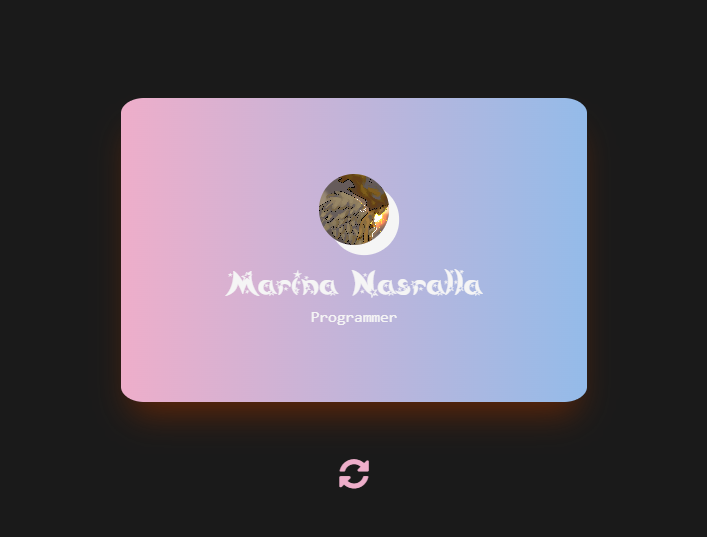
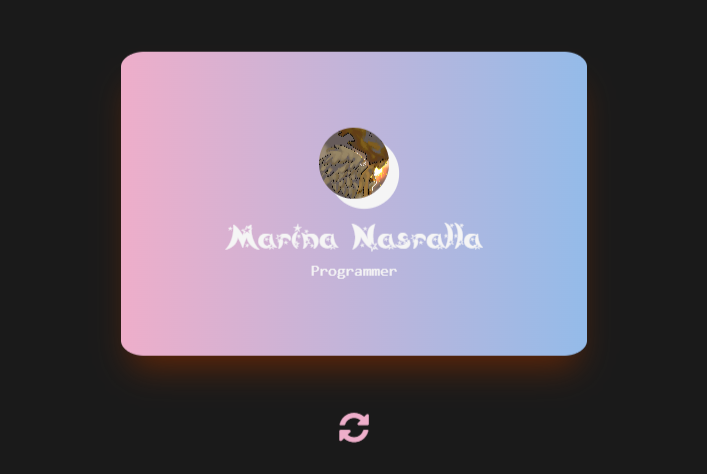
d3 dataviz

diff --git a/src/Data/DetailData.jsx b/src/Data/DetailData.jsx
@@ -266,5 +266,18 @@ export const detailData = {
             "domain": "github",
             "url": "https://github.com/mhmarina/CSE512-minecraft"
         }]
+    },
+    "banned-books-dataviz":{
+        "header": "Banned Books Dataviz",
+        "links": [{
+            "domain": "github",
+            "url": "https://github.com/mhmarina/d3-banned-books"
+        },
+        {
+            "domain": "link",
+            "url": "https://mhmarina.github.io/d3-banned-books/",
+            "display": "check out the site!"
+        }],
+        "iframe": "https://mhmarina.github.io/d3-banned-books/"
     }
 }

diff --git a/src/Data/PreviewData.jsx b/src/Data/PreviewData.jsx
@@ -80,7 +80,8 @@ export const graphicsPreviewData = [
     {
         id: "banned-books-dataviz",
         headline: "Banned Books Dataviz",
-        summary: "Custom D3 story on banned books"
+        summary: "Custom D3.js data story on banned books",
+        imgsrc: "/thumbnail/banned-book.jpg"
     },
     {
         id: "virtual-biz-card",
